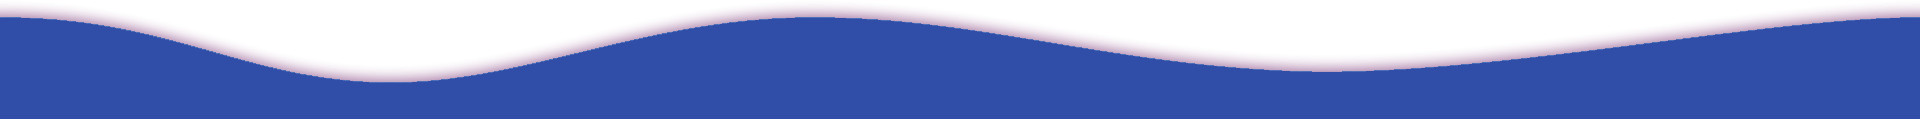
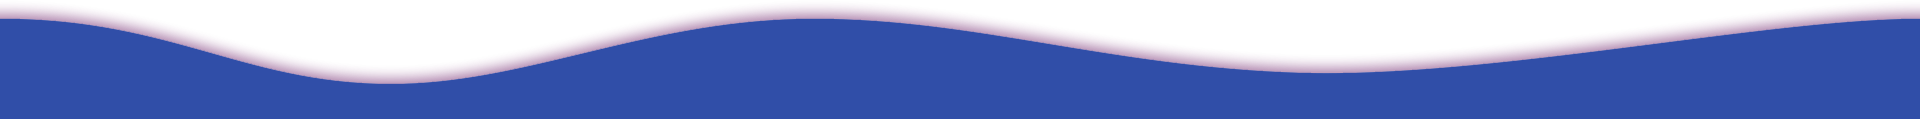
wave and removed dashboard honeycomb

diff --git a/src/pages/private/eglogistics/scenes/dashboard/index.jsx b/src/pages/private/eglogistics/scenes/dashboard/index.jsx
@@ -24,7 +24,12 @@ export default function Dashboard() {
   return (
     <Box m="20px">
       {/* HEADER */}
-      <Box display="flex" justifyContent="space-between" alignItems="center">
+      <Box
+        display="flex"
+        justifyContent="space-between"
+        alignItems="center"
+        marginTop="-15px"
+      >
         <Header title="DASHBOARD" subtitle="Welcome E&G Logistics dashboard" />
 
         <Box>

diff --git a/src/pages/landing/waterrfront.jsx b/src/pages/landing/waterrfront.jsx
@@ -236,7 +236,7 @@ function ContentItem() {
               fontFamily: "poppins",
               mr: 0.2,
               color: "black",
-              backgroundColor: "#cef9ff",
+              backgroundColor: "rgba(206, 249, 255, 0.9)",
               boxShadow: "1px 1px 5px #b8f6ff, 4px 10px 4px #b8f6ff",
               "&:hover": {
                 textShadow: "0 0 0.5rem rgba(255, 255, 255, 0.75)",

diff --git a/src/App.css b/src/App.css
@@ -85,7 +85,7 @@ a:visited {
 }
 
 .custom-header {
-  background-color: #95727e;
+  background-color: #078c6f;
   color: white;
   font-weight: bold;
 }

diff --git a/src/index.css b/src/index.css
@@ -13,6 +13,7 @@ body,
 .app {
   display: flex;
   position: relative;
+  
 }
 
 ::-webkit-scrollbar {
